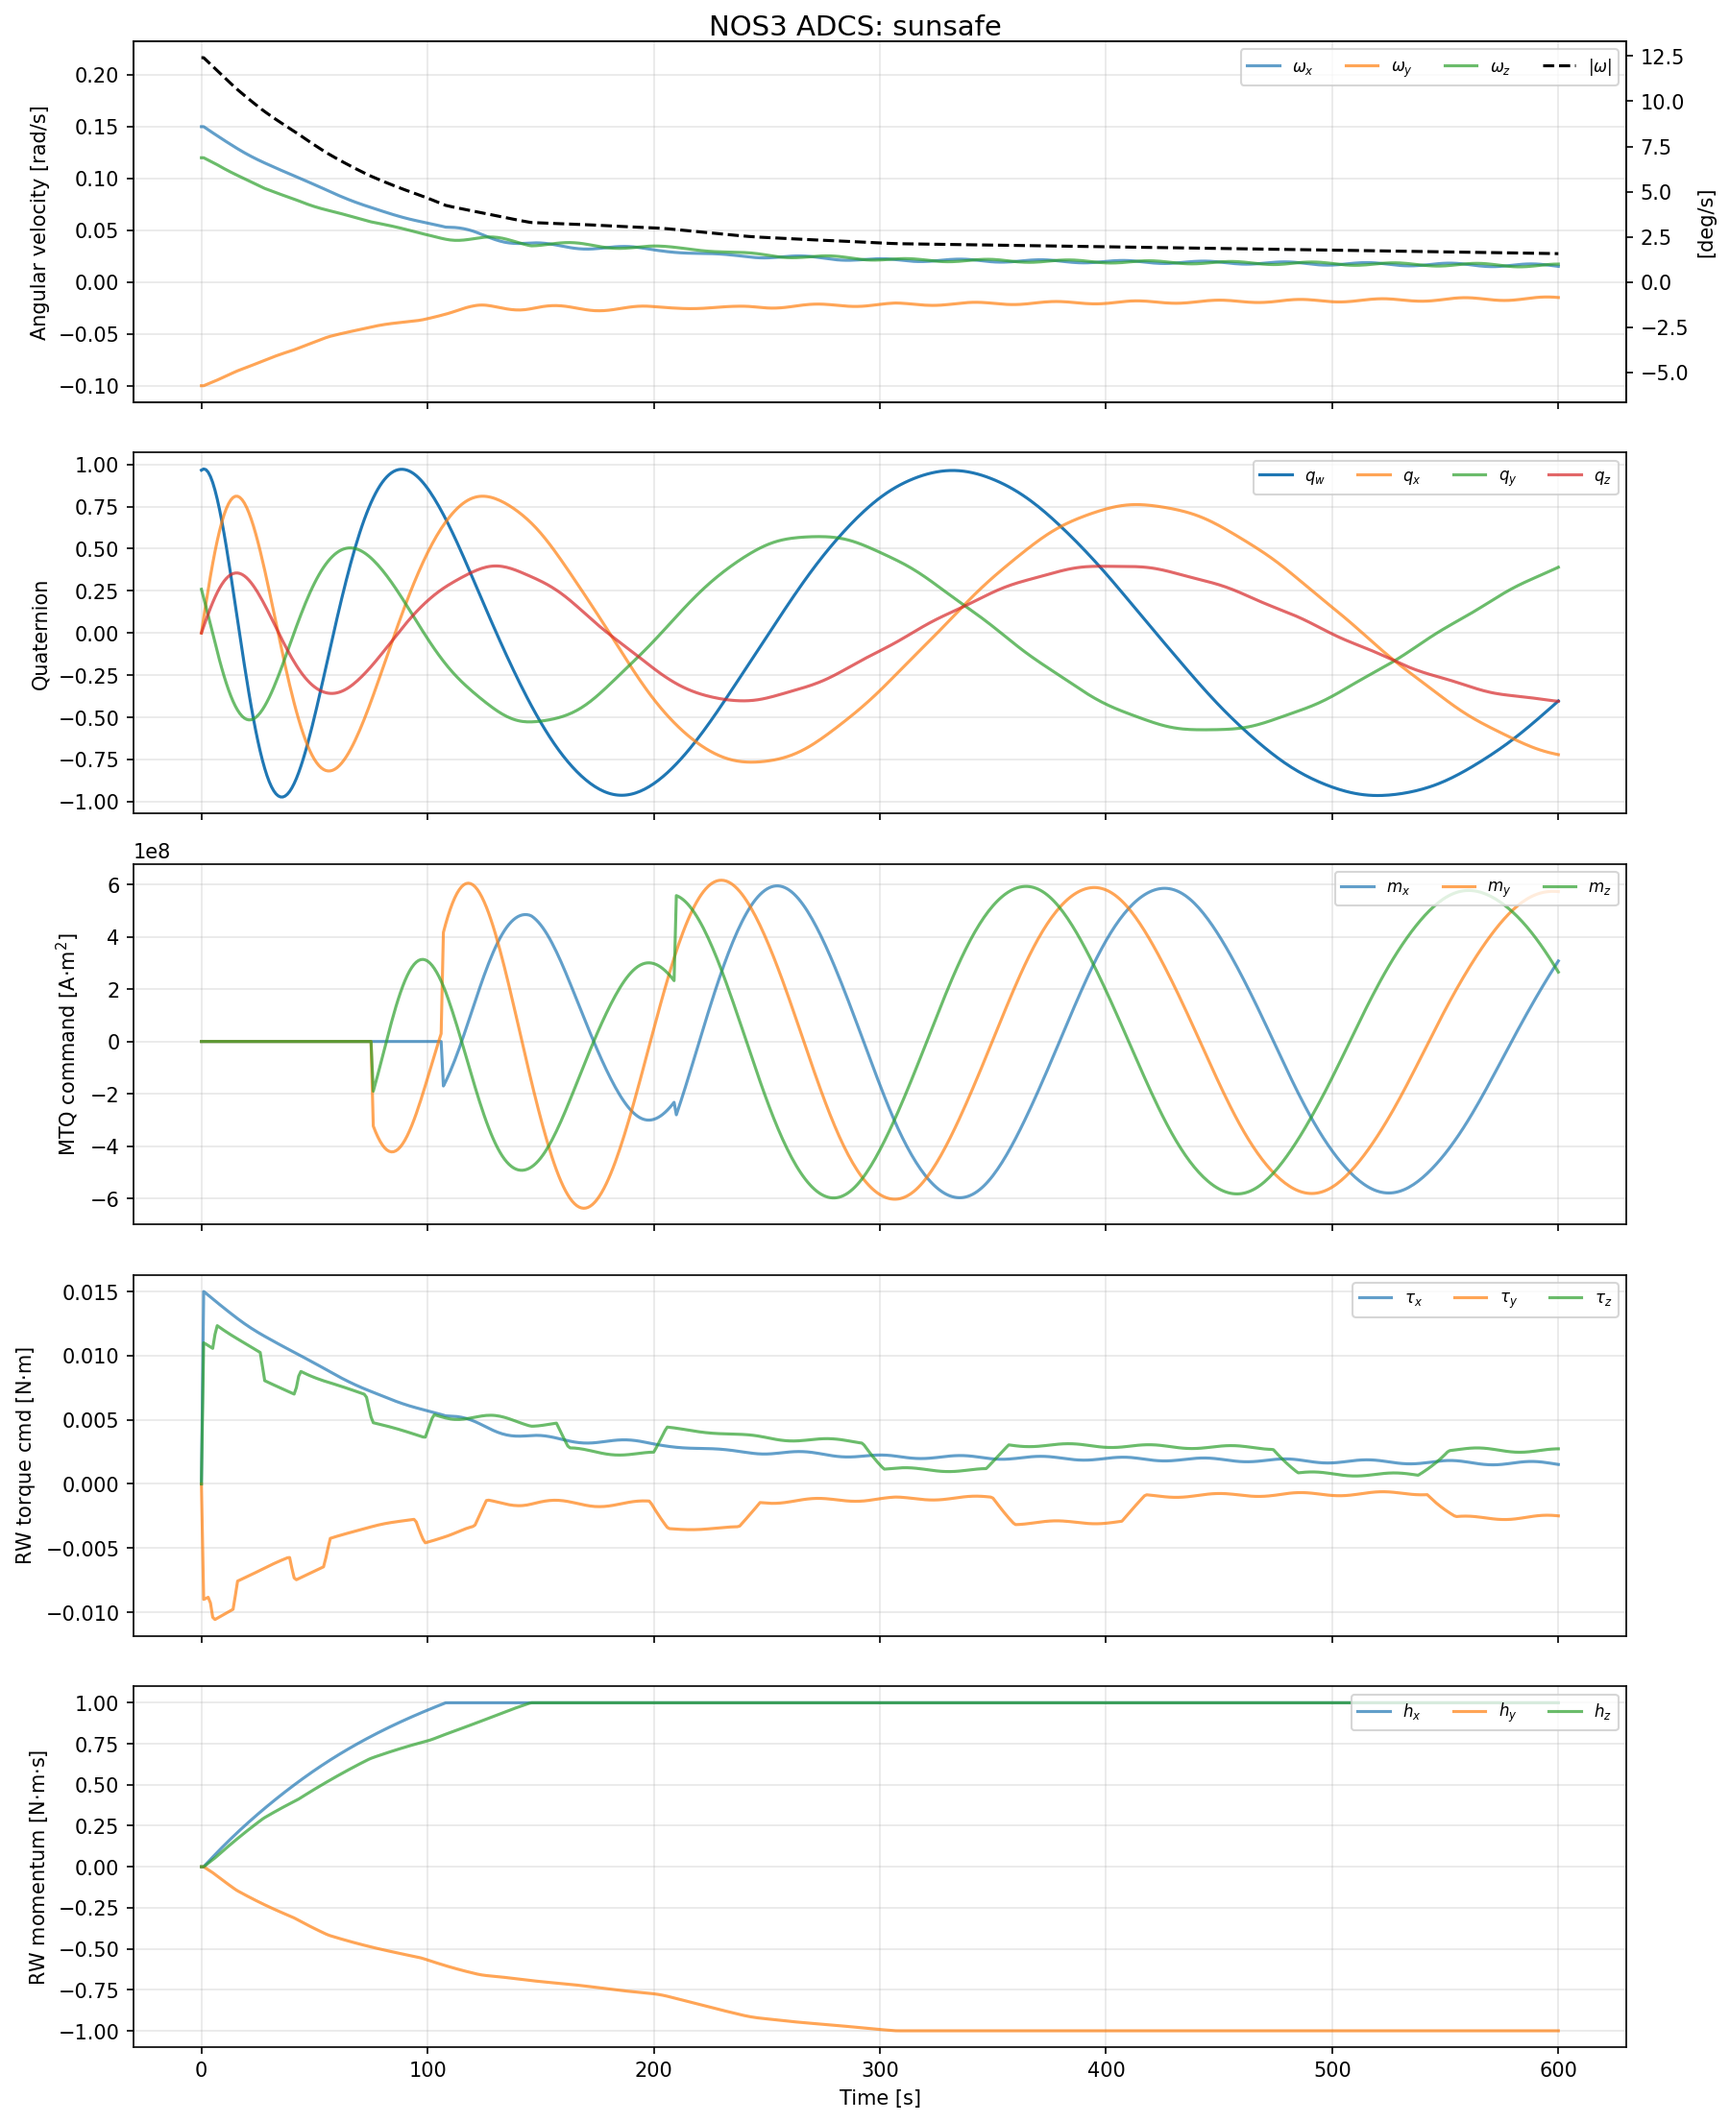
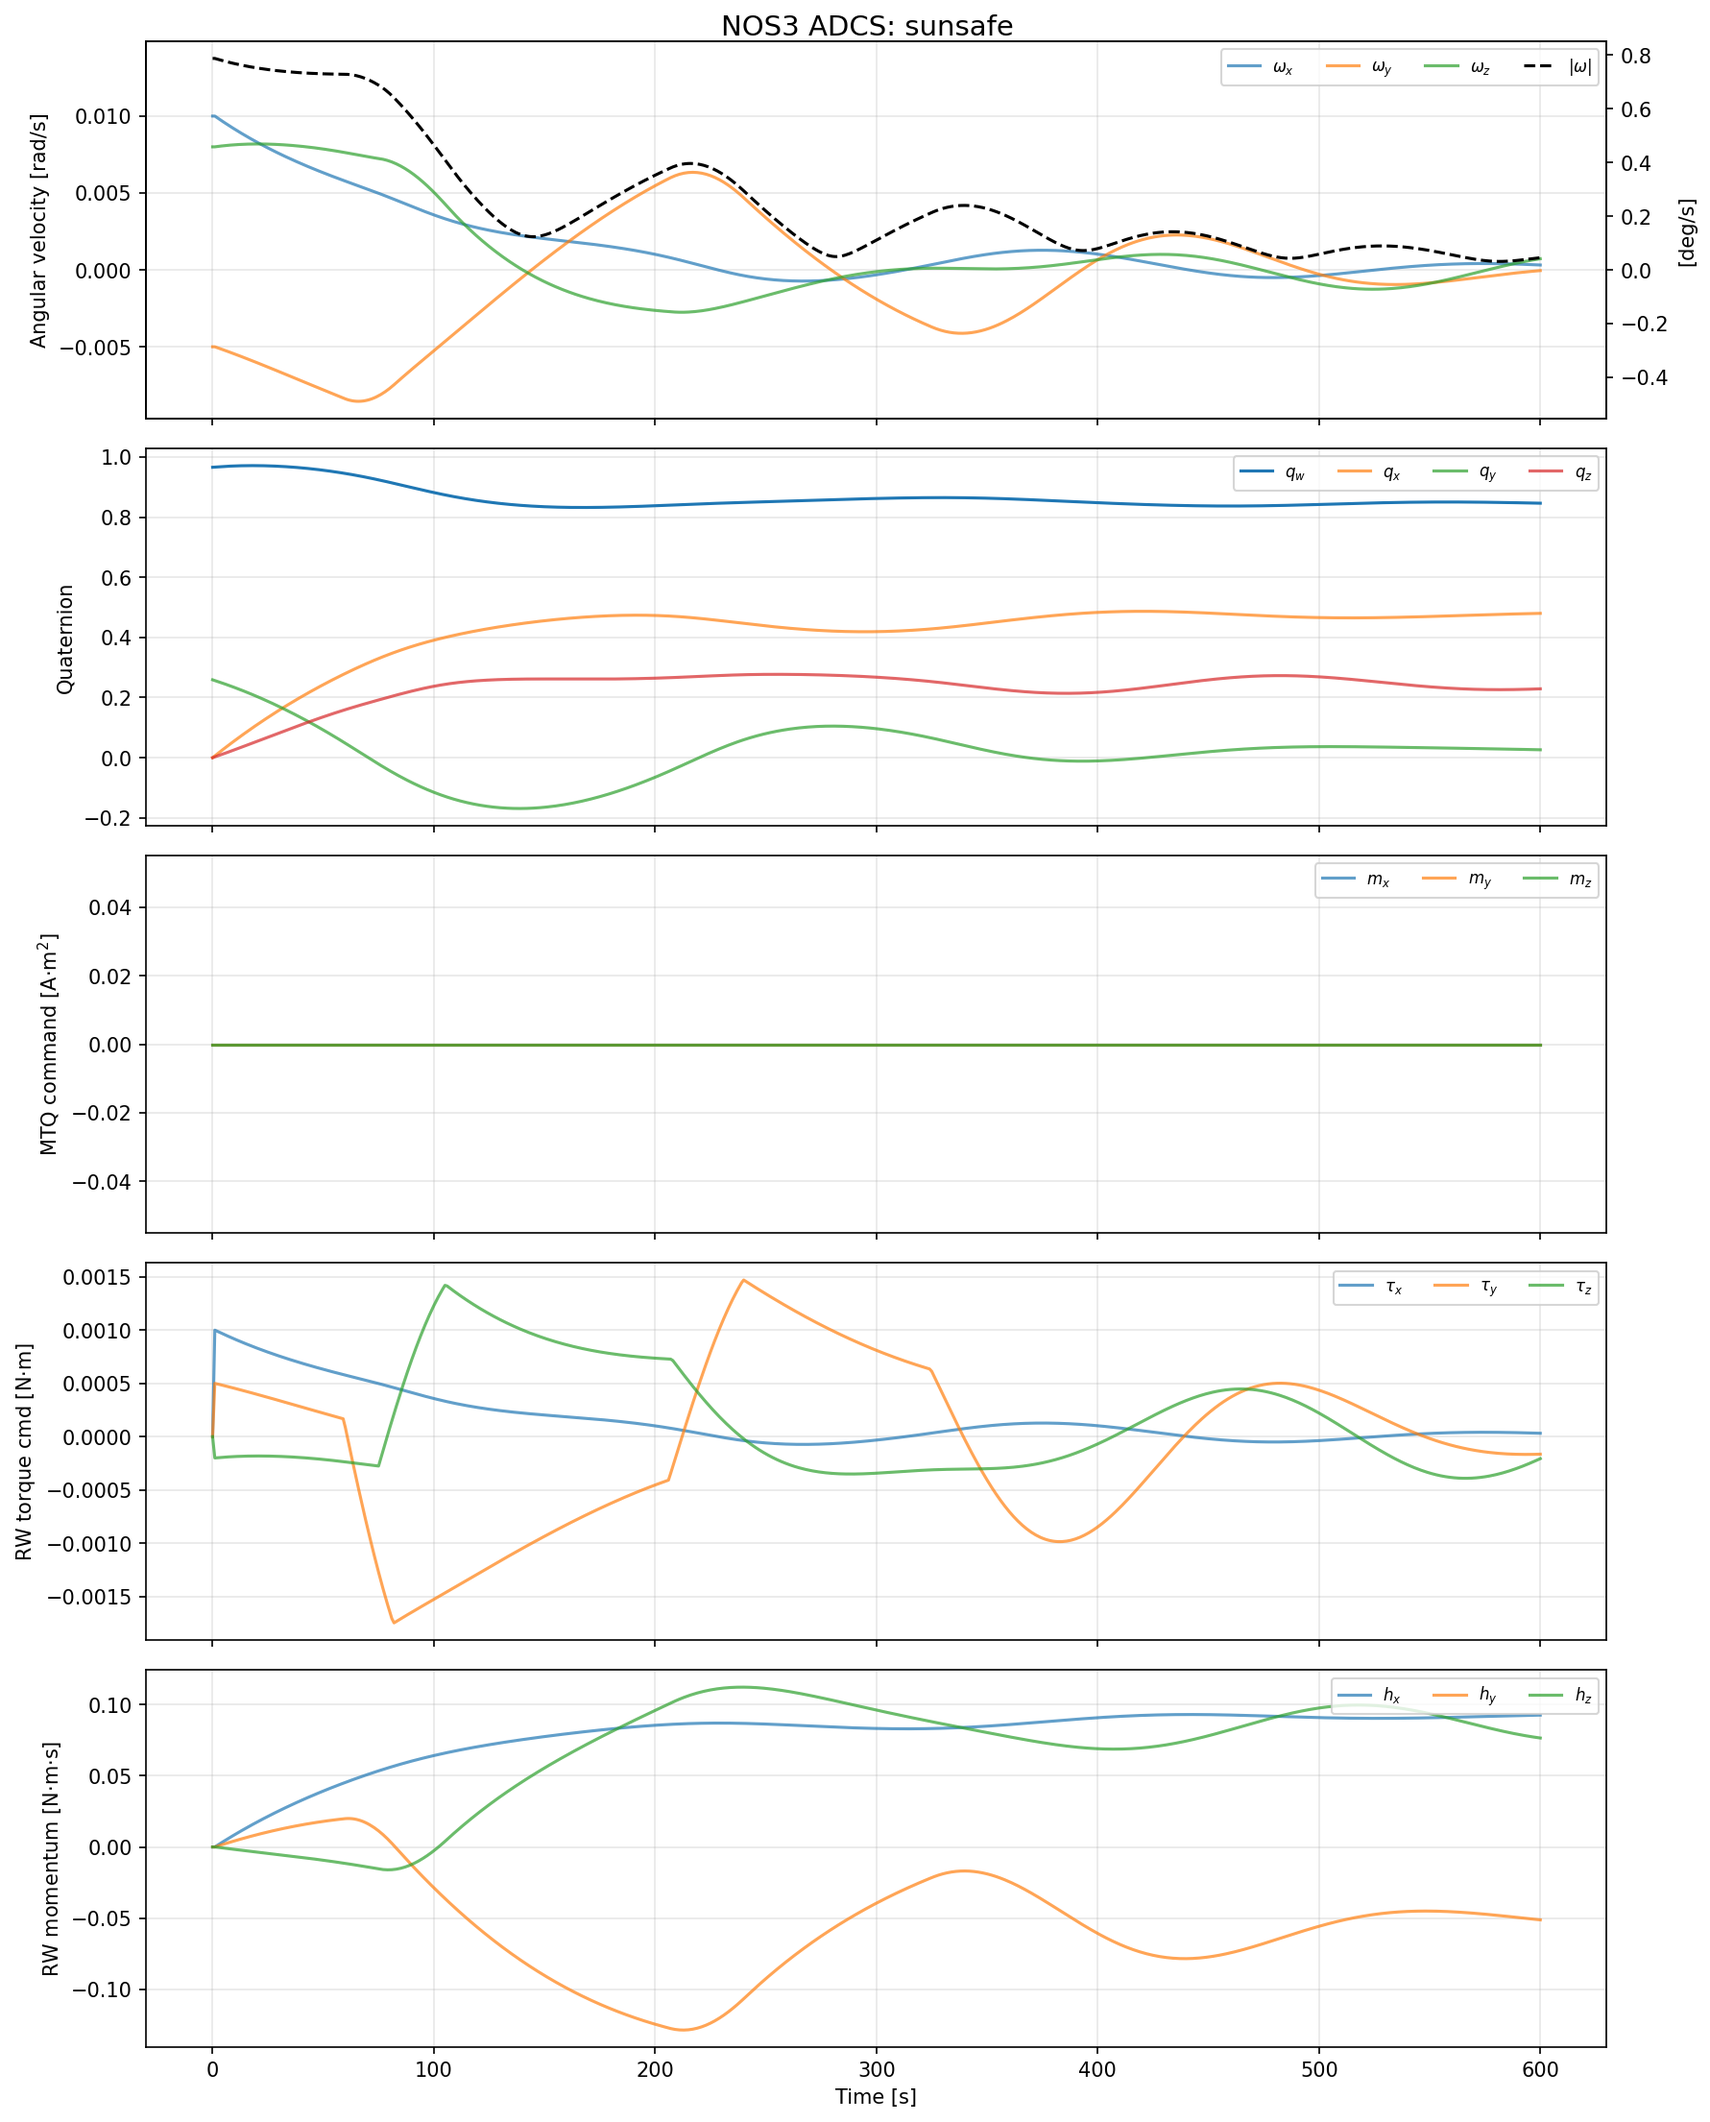
fix(nos3-adcs): use post-detumble ω for Sun-Safe test (avoid RW saturation)

diff --git a/plugin-sdk/examples/nos3-adcs/README.md b/plugin-sdk/examples/nos3-adcs/README.md
@@ -73,9 +73,9 @@ orts run --config orts.toml
 
 ![B-dot](bdot.png)
 
-### Sun-Safe Pointing (600s)
+### Sun-Safe Pointing (600s, post-detumble ω)
 
-初期角速度: ω = [0.15, -0.10, 0.12] rad/s (~12.5 deg/s)
+初期角速度: ω = [0.01, -0.005, 0.008] rad/s (~0.8 deg/s, B-dot デタンブリング後を想定)
 
 ![Sun-Safe](sunsafe.png)
 
